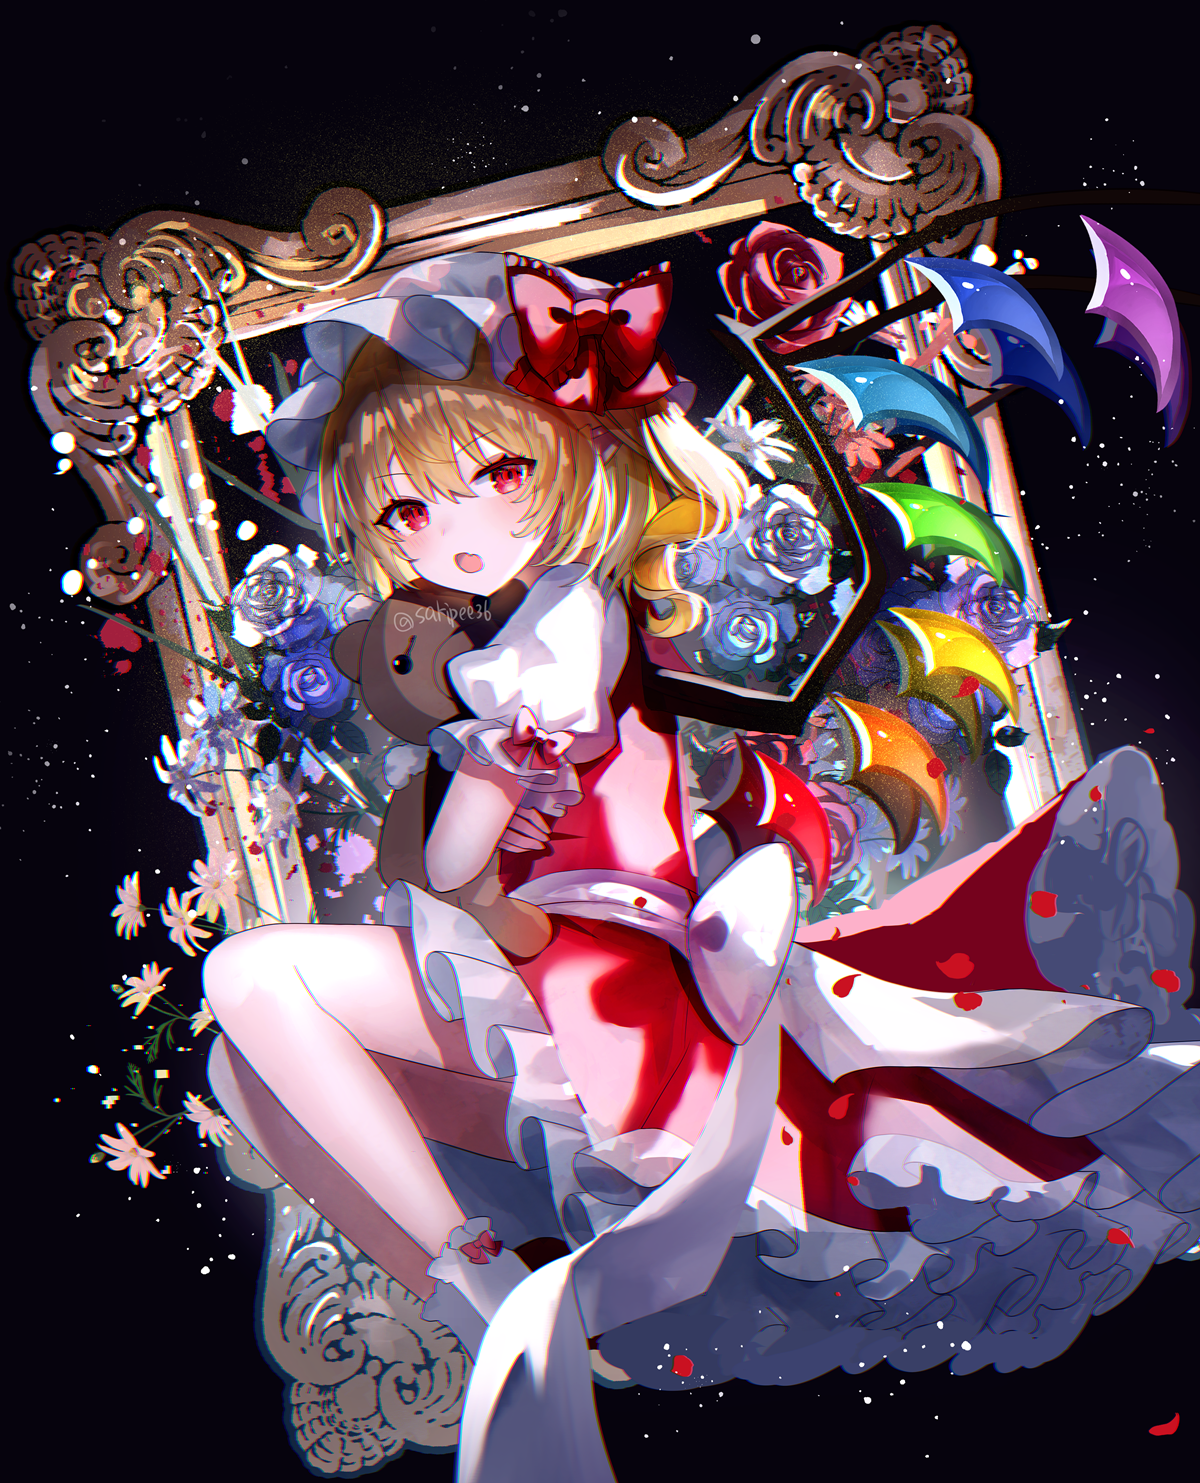
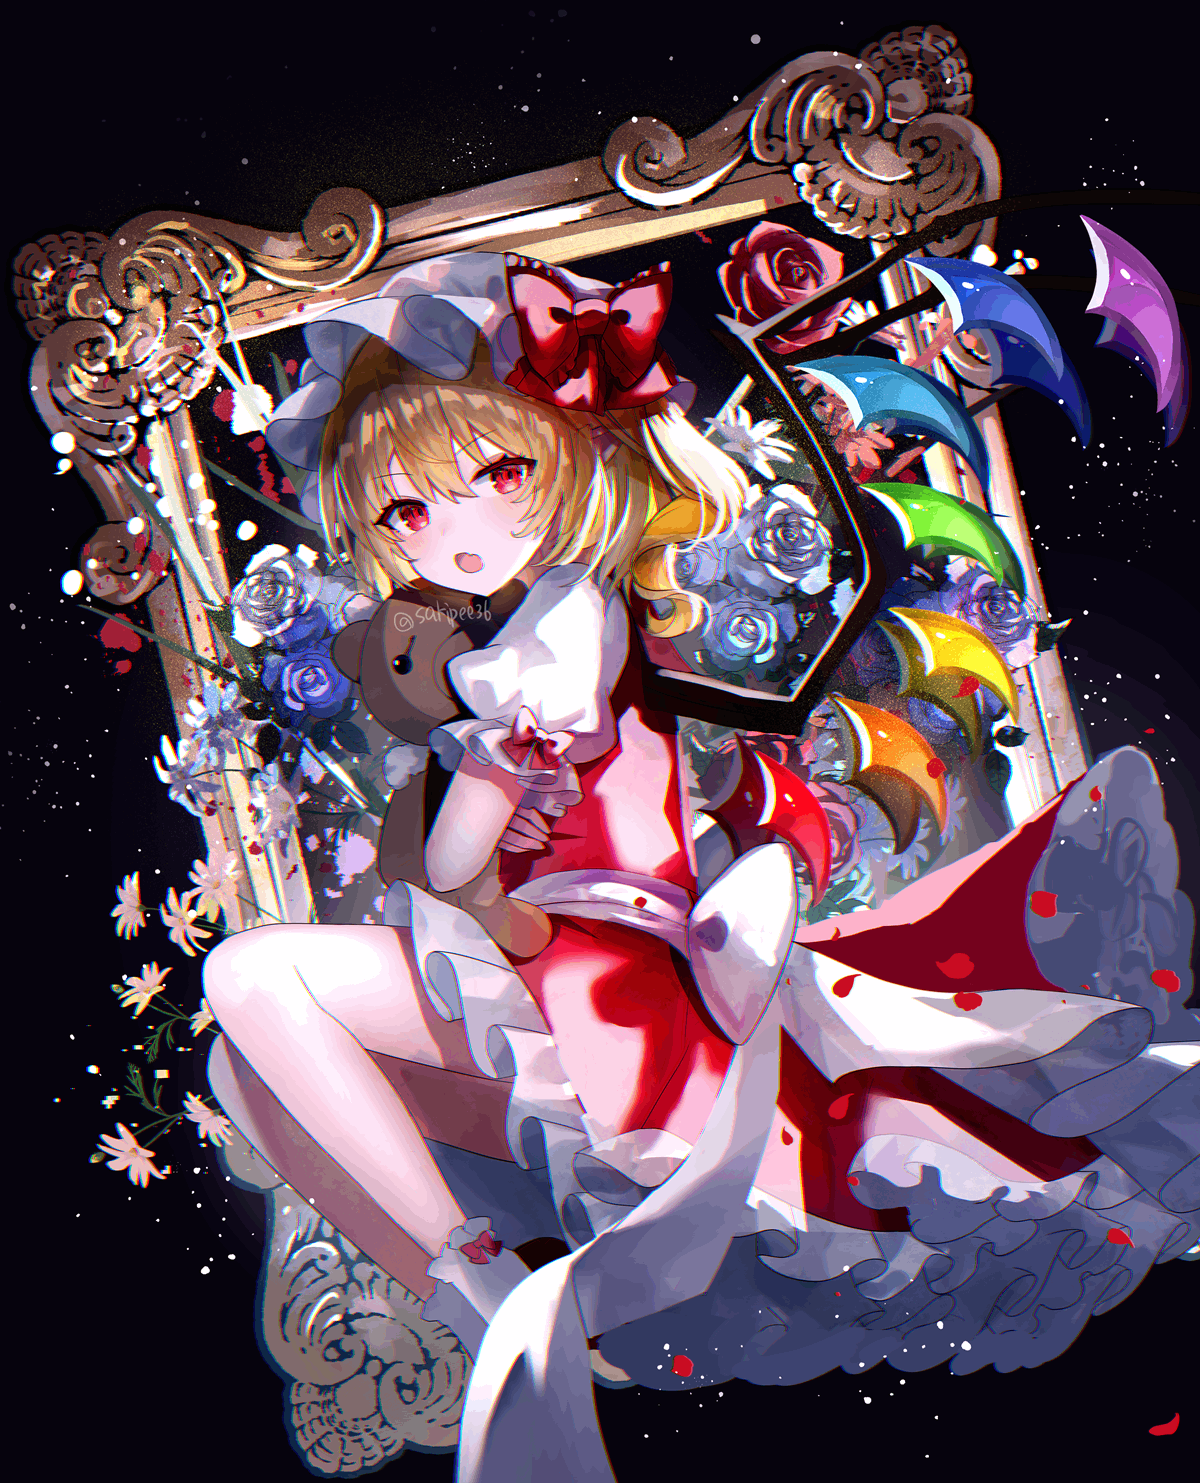
deploy: 2123ABC/hugo-main@847325ba9b9af47946fb07ef61694c18e2f29b86

Changed region(s): [[0.8017, 0.3412, 0.8325, 0.3722]]

diff --git a/关于/index.html b/关于/index.html
@@ -332,7 +332,7 @@
 <p><img src="/%E5%85%B3%E4%BA%8E/126314184_p0.png"
 	width="1200"
 	height="1483"
-	srcset="/%E5%85%B3%E4%BA%8E/126314184_p0_hu_c561e7b1540139b7.png 480w, /%E5%85%B3%E4%BA%8E/126314184_p0_hu_e00f4c511217558b.png 1024w"
+	srcset="/%E5%85%B3%E4%BA%8E/126314184_p0_hu_7875df17ea16c3e5.png 480w, /%E5%85%B3%E4%BA%8E/126314184_p0_hu_91c1445c41cb9f7e.png 1024w"
 	loading="lazy"
 	
 		alt="一张超级好看的芙兰的插画!pid:126314184"
